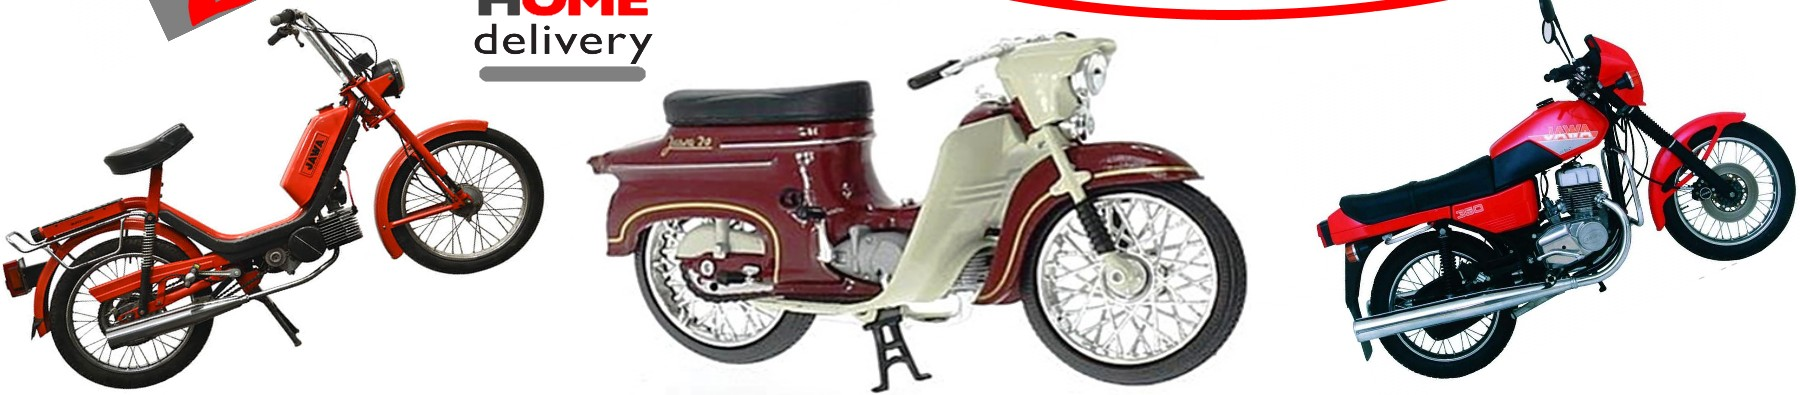
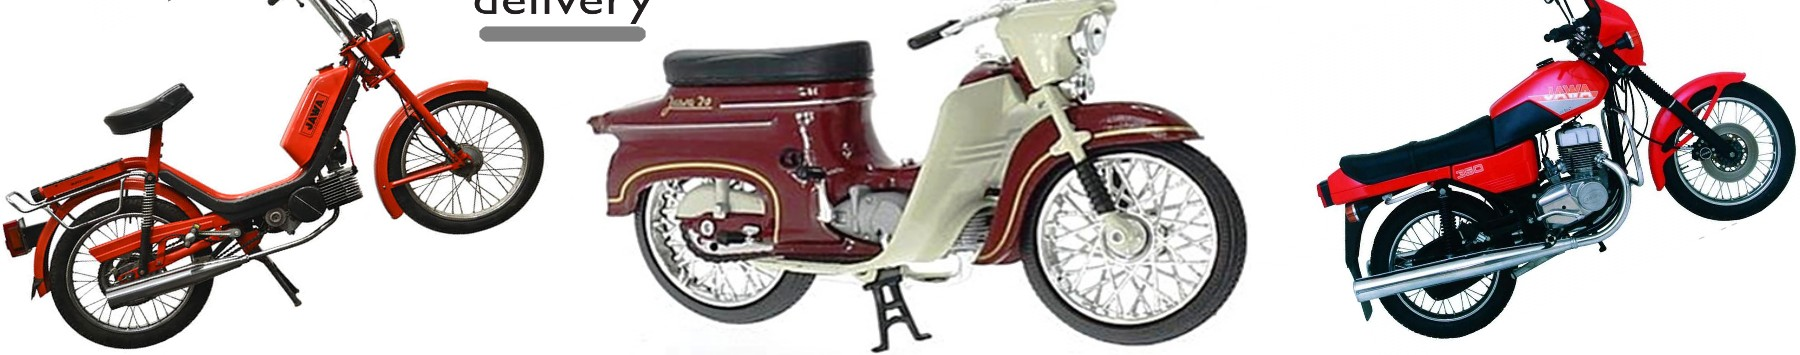
Aktualizace webu 2026-10-19 11:06

diff --git a/static/css/style.css b/static/css/style.css
@@ -21,8 +21,9 @@ h3{font-size:1.2rem}
 .kicker{margin:0 0 14px;font-weight:700;color:var(--cerv-t);text-transform:uppercase;letter-spacing:.12em;font-size:.82rem}
 .lead,.uvod{font-size:1.15rem;max-width:60ch;color:#3a3a3a}
 .hero{background:var(--svetla)}
-.hero-g{display:grid;grid-template-columns:1.05fr 1fr;gap:48px;align-items:center;padding-top:clamp(40px,6vw,84px);padding-bottom:clamp(40px,6vw,76px)}
-.hero-foto img{width:100%;border:1px solid var(--okraj);background:#fff}
+.hero-g{padding-top:clamp(40px,6vw,84px);padding-bottom:clamp(24px,4vw,40px)}
+.hero-foto{padding-bottom:clamp(28px,4vw,48px)}
+.hero-foto img{width:100%;max-width:1100px;margin:0 auto;background:#fff}
 .cta{display:flex;gap:12px;flex-wrap:wrap;margin:28px 0 0}
 .tlacitko{display:inline-block;background:var(--cerv);color:#fff;text-decoration:none;font-weight:700;padding:14px 26px;border:2px solid var(--cerv);text-transform:uppercase;letter-spacing:.04em;font-size:.95rem}
 .tlacitko:hover{background:var(--cerv-t);border-color:var(--cerv-t)}
@@ -63,6 +64,6 @@ address{font-style:normal}
 .formular-stav{margin:0;font-size:.9rem;color:#555}
 .paticka{background:var(--cern);color:#ddd;padding:30px 0;font-size:.92rem}
 .paticka .wrap{display:flex;flex-wrap:wrap;gap:8px 32px}.paticka p{margin:0}.paticka a{color:#fff}
-@media(max-width:900px){.hero-g,.dva{grid-template-columns:1fr;gap:32px}.produkty{grid-template-columns:repeat(2,1fr)}.hlavicka .wrap{flex-wrap:wrap;padding-top:8px;padding-bottom:8px}.hlavicka nav{gap:4px 16px}}
+@media(max-width:900px){.dva{grid-template-columns:1fr;gap:32px}.produkty{grid-template-columns:repeat(2,1fr)}.hlavicka .wrap{flex-wrap:wrap;padding-top:8px;padding-bottom:8px}.hlavicka nav{gap:4px 16px}}
 @media(max-width:480px){body{font-size:16px}.logo img{height:44px}.hlavicka nav a{font-size:13px}.tlacitko{width:100%;text-align:center}}
 @media(prefers-reduced-motion:reduce){html{scroll-behavior:auto}}

diff --git a/src/index.html b/src/index.html
@@ -10,8 +10,9 @@
       <p class="lead">Veľkoobchod, maloobchod a e-shop. Vyberiete si podľa modelu, my balíme a posielame domov. Vlastná dielňa v Kolárove robí renováciu mopedov Babetta.</p>
       <p class="cta"><a class="tlacitko" href="https://www.motozolzso.sk" rel="noopener">Do e-shopu</a> <a class="tlacitko druhe" href="#modely">Vybrať podľa modelu</a></p>
     </div>
-    <div class="hero-foto">{{ img('stroje.jpg', 'Jawa 50, Jawa 20 a Jawa 350', sizes='(min-width: 900px) 50vw, 100vw', eager=True) }}</div>
+
   </div>
+  <div class="wrap"><div class="hero-foto">{{ img('stroje.jpg', 'Jawa 50, Jawa 20 a Jawa 350', sizes='(min-width: 900px) 50vw, 100vw', eager=True) }}</div></div>
   <div class="pas"><div class="wrap"><span>Infolinka a sklad: Po – Pi 9:00 – 16:00</span><span>{{ site.kontakt.telefon }}</span><span>{{ site.kontakt.email }}</span></div></div>
 </section>
 
